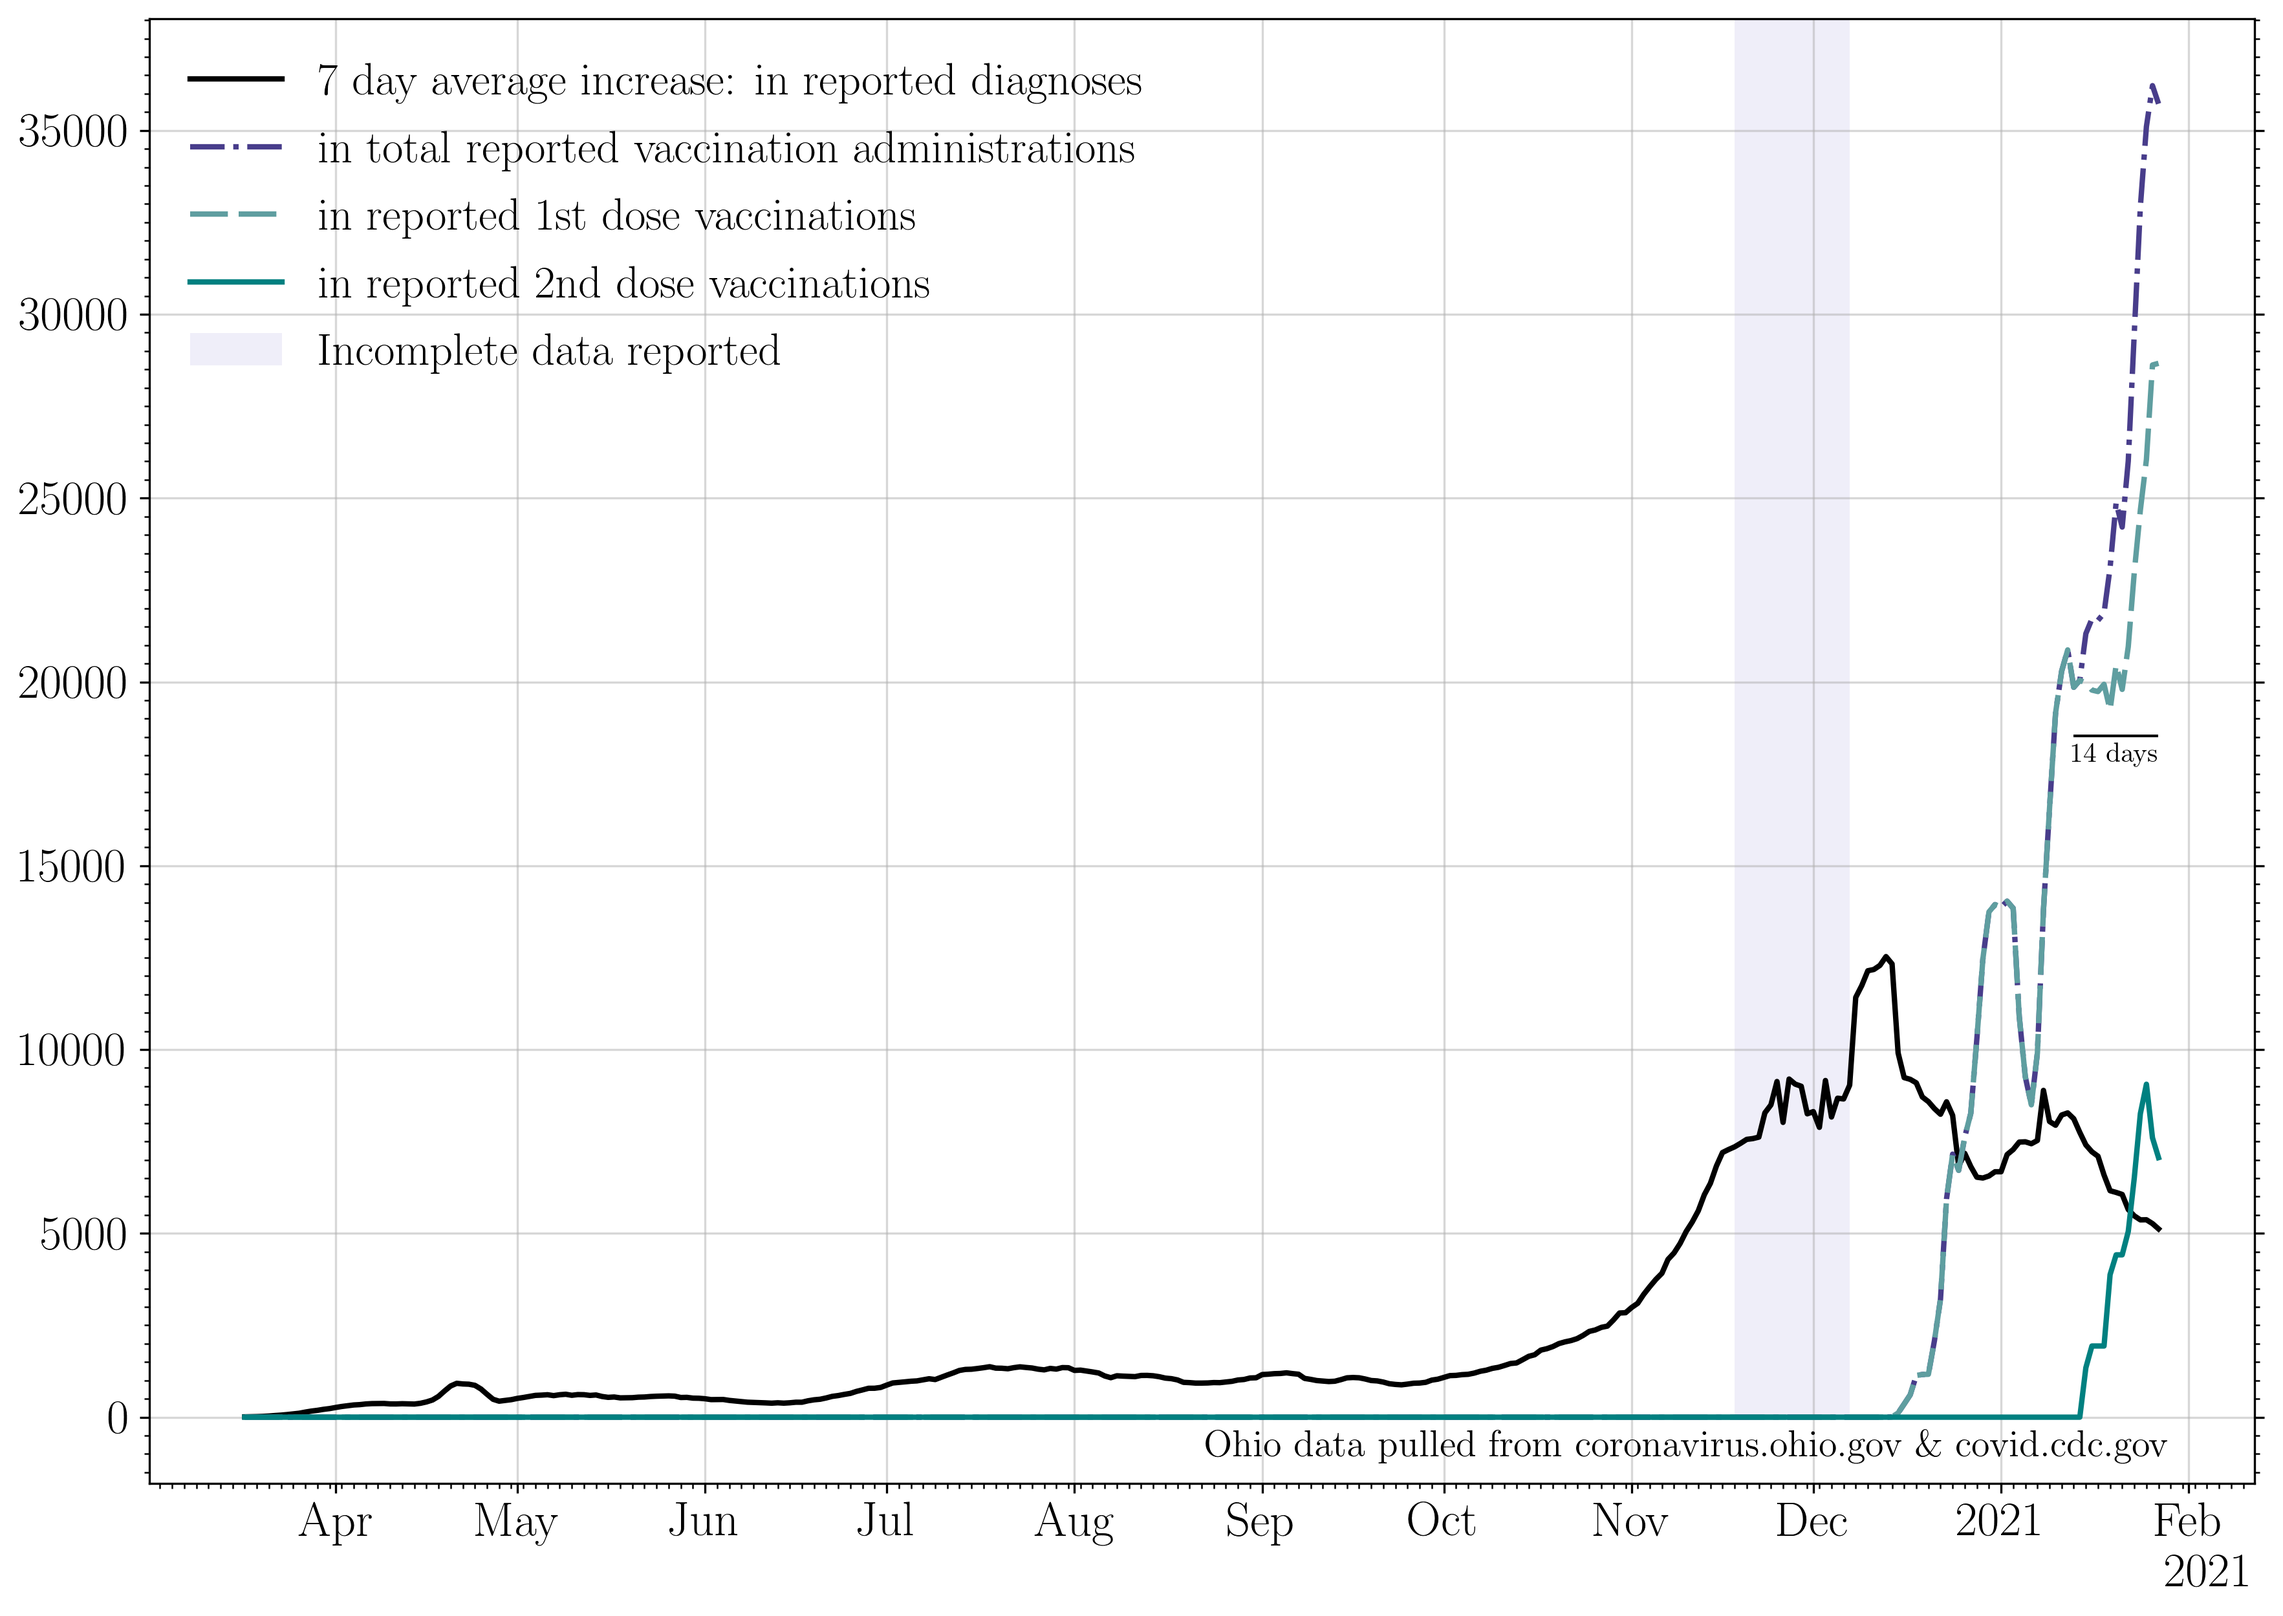
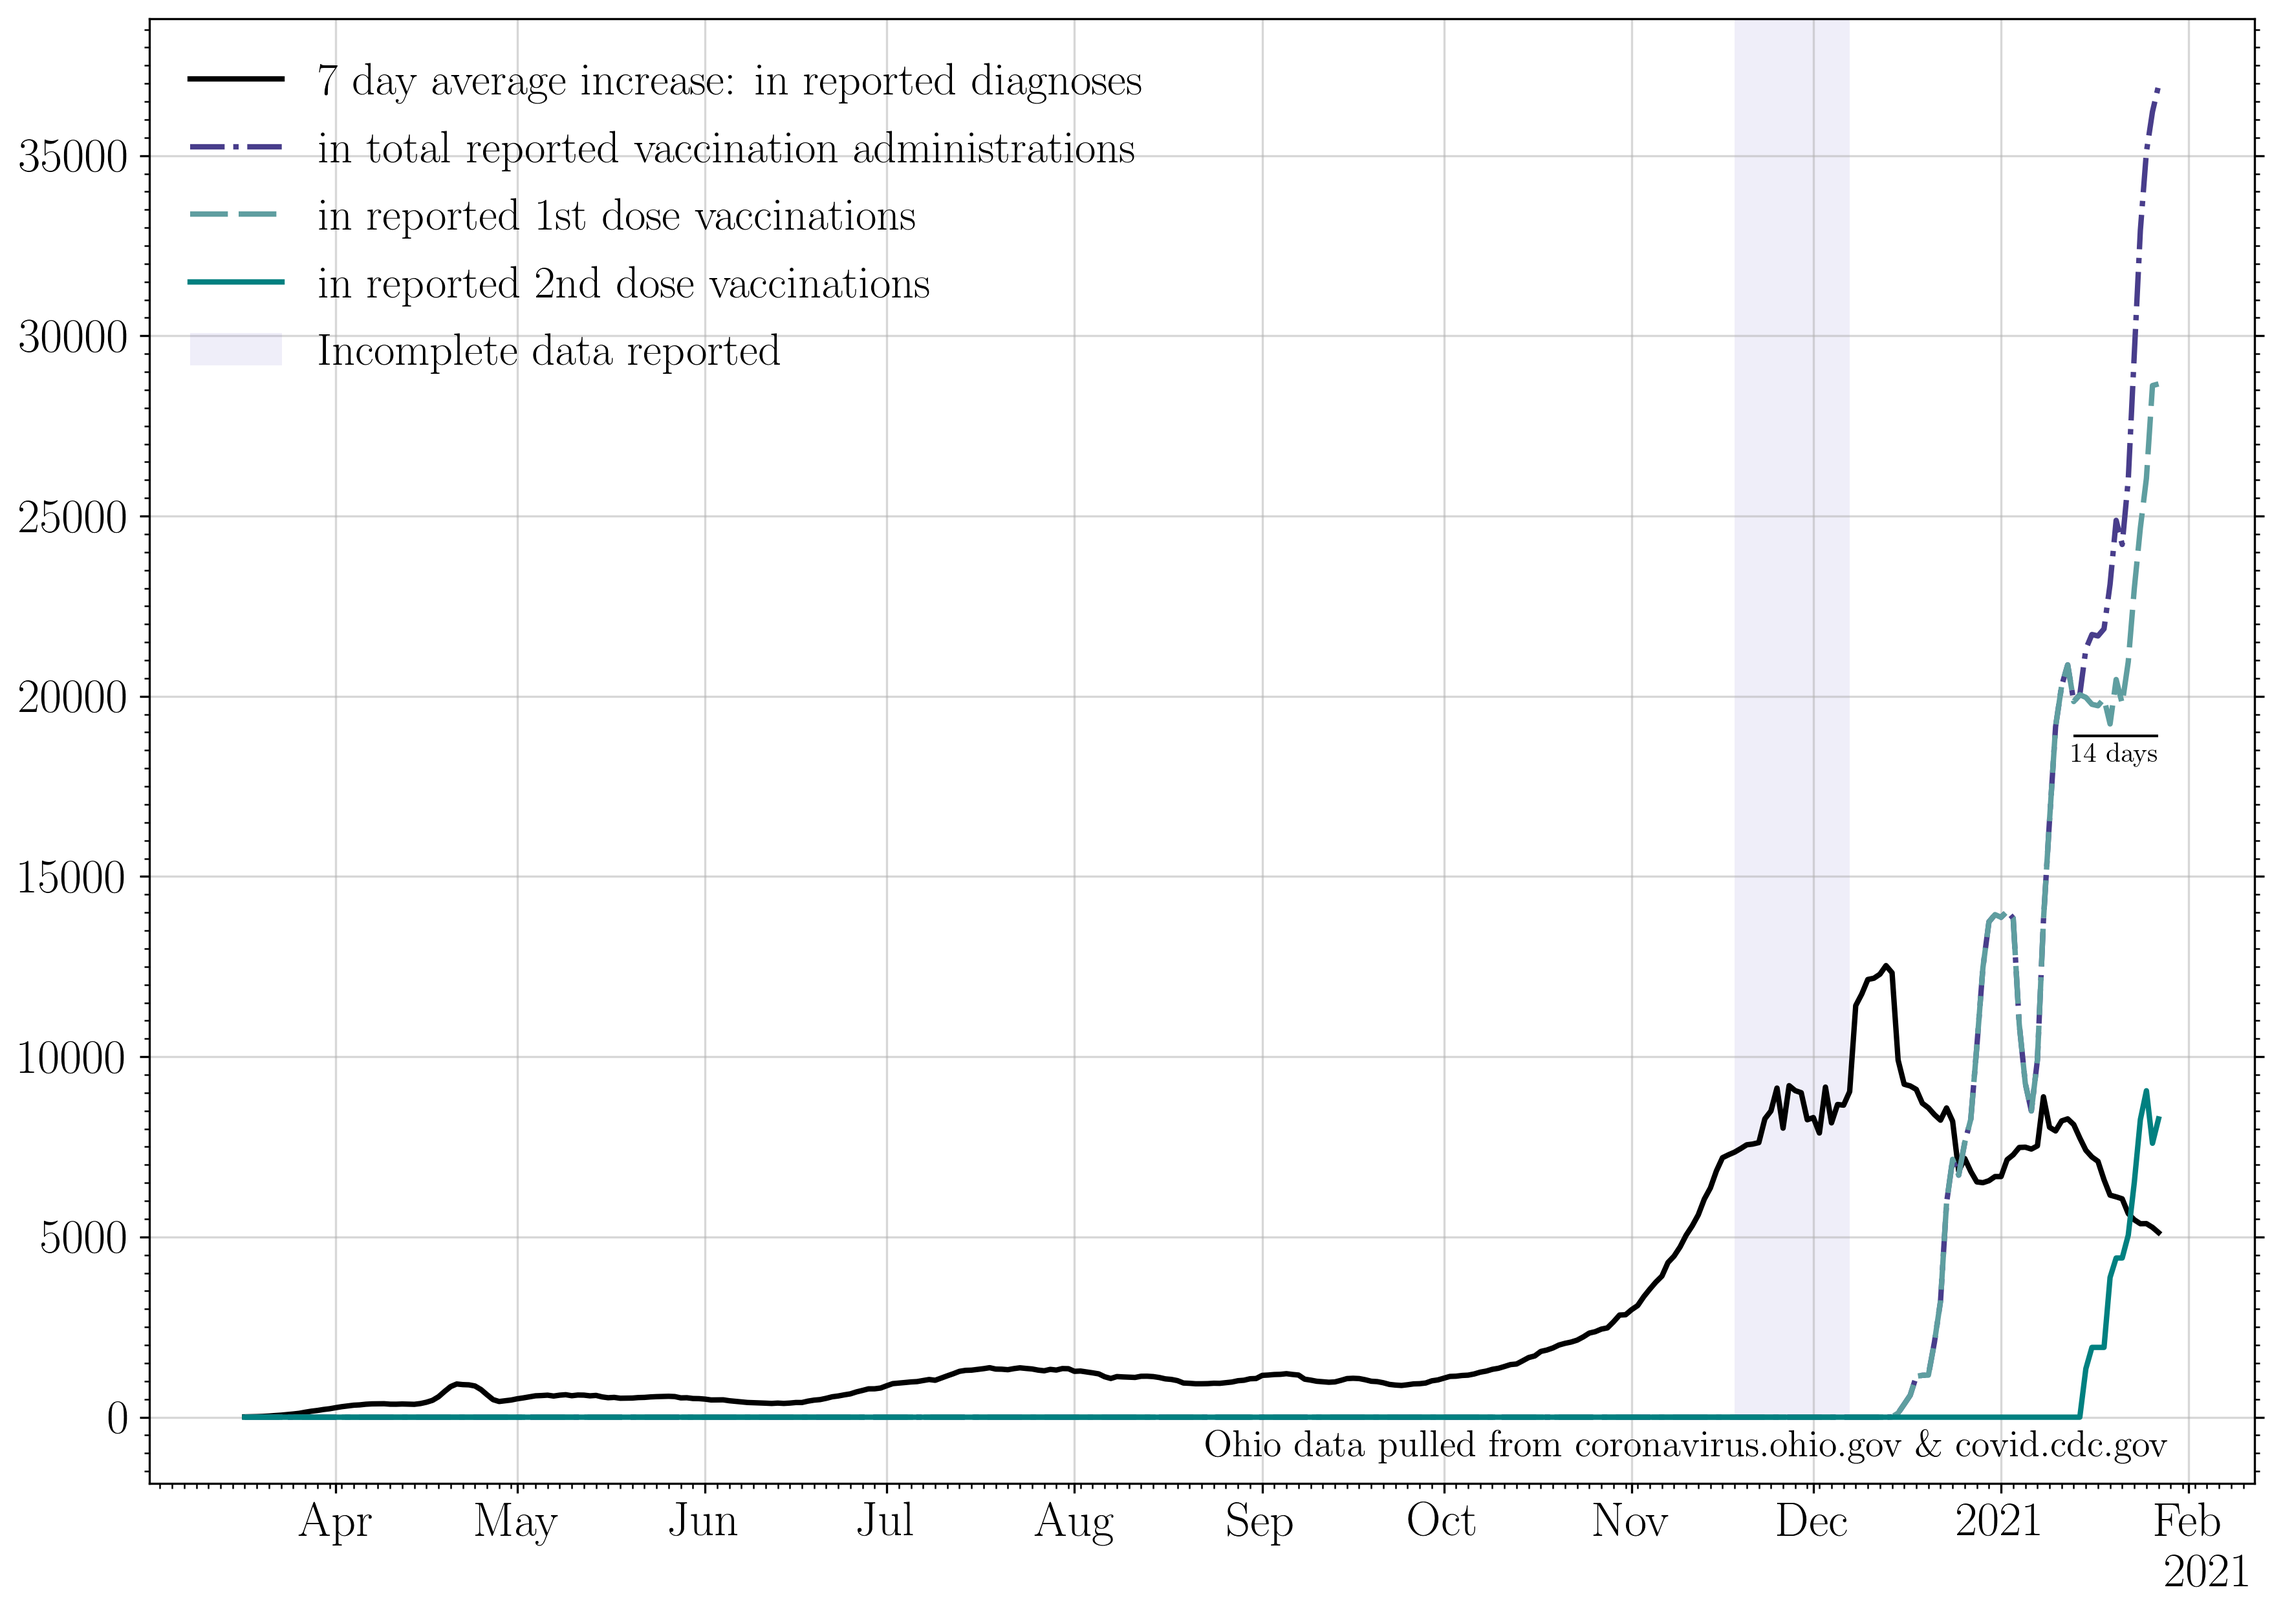
Updates with CDC 2nd dose data

diff --git a/index.md b/index.md
@@ -72,8 +72,8 @@ The cumulative number of first and second round vaccinations. If no new events w
 >The current total number of first round vaccinations is equivalent to 1 person out of every 17 in the state of Ohio having begun their vaccination sequence.
 >This is 5.84 percent of the population of Ohio.
 
->The current total number of second round vaccinations is equivalent to 1 person out of every 146 in the state of Ohio having completed their vaccination sequence.
->This is 0.69 percent of the population of Ohio.
+>The current total number of second round vaccinations is equivalent to 1 person out of every 132 in the state of Ohio having completed their vaccination sequence.
+>This is 0.76 percent of the population of Ohio.
 
 >Currently fully protected by the vaccine are: 0 people, who received their second round vaccination on or before Jan 13 2021.
 
